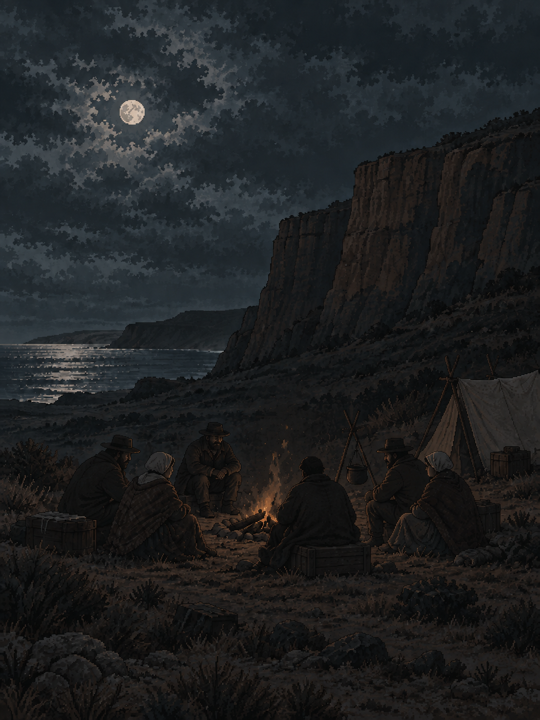
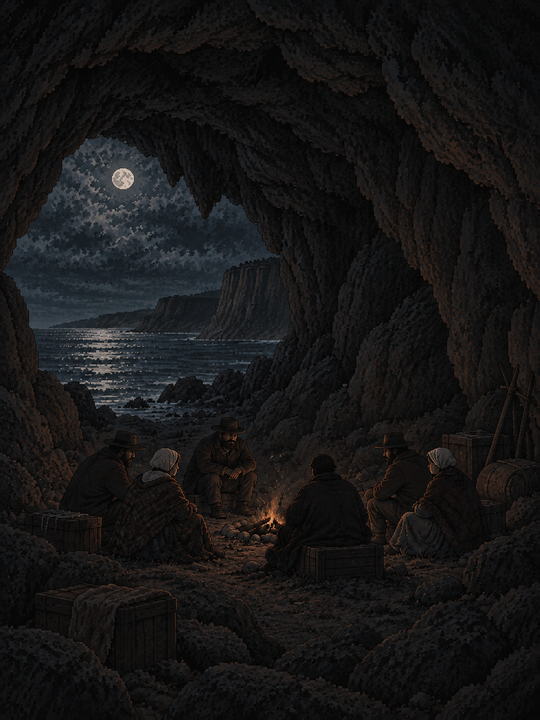
fix: pantalla de espera en la carga inicial y los dos fondos del fogón, la mitad de pesados
Reproduje lo que describiste ("la primera vez... salió trabado") con el
build real (no el de un solo archivo): antes de que BootScene.create()
pueda correr, Phaser espera a que termine de bajar TODO lo que pide
preload() — con caché fría eso son ~10 MB solo de escenas cinemáticas. Sin
ningún indicio en pantalla durante esa espera (index.html no tenía nada,
solo el fondo negro), una conexión de celular lenta se lee como colgado
aunque atrás esté cargando bien.

- index.html: pantalla de espera de puro HTML/CSS (título + spinner),
  visible desde el instante en que abre la página, sin depender de que
  cargue nada de JS. BootScene.create() la saca apenas el juego está
  listo para mostrar algo real.
- fogon_chico.png y fogon_grande.png venían al doble de resolución que el
  resto de las escenas cinemáticas (1086×1448 contra 540×720) sin ningún
  motivo — a los ~270×352px donde se muestran en pantalla no se nota la
  diferencia, y entre las dos pesaban 4,3 MB de los ~10 de escenas. Ahora
  pesan lo mismo que las demás (~600 KB cada una).

Probé los botones del menú tras el fix (responden bien, no era un
problema de interactividad) y el fogón con el arte ya más liviano — se ve
igual.

diff --git a/index.html b/index.html
@@ -38,6 +38,30 @@
       image-rendering: auto !important;
     }
 
+    /* Pantalla de espera puro HTML/CSS, sin depender de que cargue nada de JS ni de
+       Phaser: cubre TODO el hueco entre "se abrió la página" y "BootScene.create()
+       ya corrió" (que en Phaser espera a que termine de bajar TODO lo que pide
+       preload() — retratos, escenas, props, varios MB la primera vez sin caché). Sin
+       esto esa espera era una pantalla negra lisa sin ningún indicio de que algo
+       estaba pasando — en una conexión de celular lenta se lee como que se colgó.
+       BootScene.create() la saca (ver ese archivo) apenas el juego está listo. */
+    #boot-loading {
+      position: fixed; inset: 0; z-index: 5;
+      display: flex; flex-direction: column; align-items: center; justify-content: center;
+      gap: 14px;
+      background: #0E1416; color: #EAE8E0;
+      font-family: ui-monospace, "SF Mono", Menlo, monospace;
+    }
+    #boot-loading .bl-title { font-size: 20px; letter-spacing: 2px; }
+    #boot-loading .bl-spinner {
+      width: 22px; height: 22px;
+      border: 2px solid #2E464F; border-top-color: #D9A845;
+      border-radius: 50%;
+      animation: bl-spin 0.8s linear infinite;
+    }
+    #boot-loading .bl-text { font-size: 11px; color: #9BAEB4; }
+    @keyframes bl-spin { to { transform: rotate(360deg); } }
+
     /* El juego es 9:16 fijo (GDD §2): en horizontal se tapa todo con este aviso. */
     #rotate-guard {
       display: none;
@@ -59,6 +83,11 @@
 </head>
 <body>
   <div id="game"></div>
+  <div id="boot-loading">
+    <div class="bl-title">Y WLADFA</div>
+    <div class="bl-spinner"></div>
+    <div class="bl-text">Cargando…</div>
+  </div>
   <div id="rotate-guard">
     <div class="icono">↻</div>
     <div class="titulo">Girá el teléfono</div>

diff --git a/src/scenes/BootScene.ts b/src/scenes/BootScene.ts
@@ -58,6 +58,11 @@ export class BootScene extends Phaser.Scene {
   }
 
   create(): void {
+    // la pantalla de espera de puro HTML/CSS (index.html) ya cumplió: create() solo
+    // corre acá una vez que preload() terminó de bajar todo, así que el juego ya
+    // tiene algo real para mostrar.
+    document.getElementById('boot-loading')?.remove();
+
     const cx = VIEW.width / 2;
     makeProps(this); // trae 'prop_mimosa': WorldScene todavía no corrió, no existe todavía
     makeShipLarge(this); // versión grande de 3 mástiles, solo para estas cinemáticas
